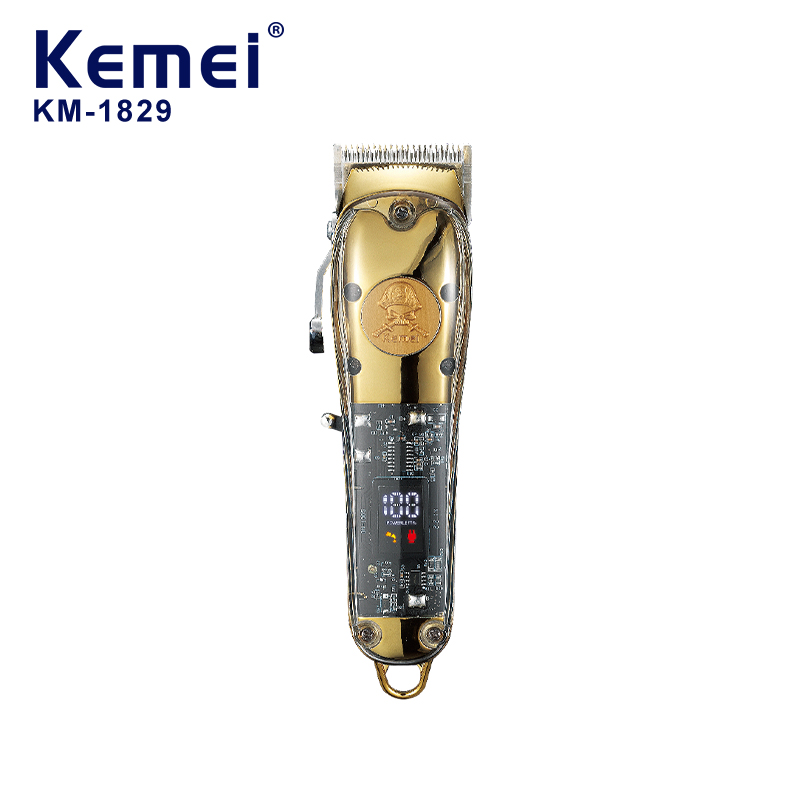
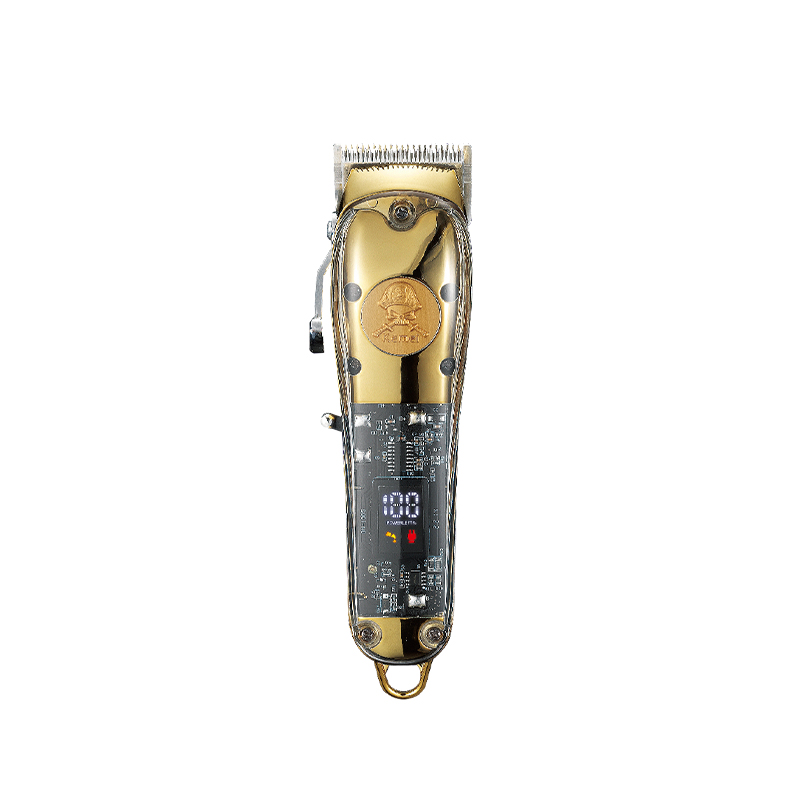
v45: 更新KM-1372/1829/709A/90-5/1113/189B/6910主图为1/1-1; KM-2295全主图PNG转JPG(1-1首图)

Changed region(s): [[0.0312, 0.0312, 0.375, 0.1562]]

diff --git a/index.html b/index.html
@@ -31,7 +31,7 @@
 <meta name="twitter:card" content="summary_large_image">
 <link rel="preconnect" href="https://miaoda.feishu.cn">
 <link href="https://miaoda.feishu.cn/fonts/css2?family=Inter:wght@400;500;600;700;800&display=swap" rel="stylesheet">
-<link rel="stylesheet" href="css/style.css?v=v20261015v44">
+<link rel="stylesheet" href="css/style.css?v=v20261015v45">
 <script type="application/ld+json">
 {"@context":"https://schema.org","@type":"Organization","name":"ANMO HOME APPLIANCES","url":"https://www.anmo-kemei.com","logo":"https://www.anmo-kemei.com/assets/favicon.png","description":"Chinese personal care appliance manufacturer and exporter. OEM/ODM, wholesale hair clippers, electric shavers, hair dryers, trimmers, beauty and pet grooming appliances.","address":{"@type":"PostalAddress","addressLocality":"Yiwu","addressRegion":"Zhejiang","addressCountry":"CN"},"contactPoint":{"@type":"ContactPoint","contactType":"sales","email":"sales-yiwu@anmo-kemei.com","availableLanguage":["English","Chinese","Spanish","French","Portuguese","Vietnamese","Thai","Indonesian","Russian","Japanese","Korean","Italian","German","Dutch","Arabic"]}}
 </script>
@@ -320,15 +320,15 @@
 
 <div id="toast-box"></div>
 
-<script>window.SITE_VER="v20261015v44";window._uv=function(u){return u&&u.indexOf("?")<0?u+"?v="+(window.SITE_VER||"1"):u;};</script>
-<script src="js/data-override.js?v=v20261015v44"></script>
-<script src="langs/en.js?v=v20261015v44"></script>
-<script src="js/i18n.js?v=v20261015v44"></script>
-<script src="js/data.js?v=v20261015v44"></script>
-<script src="js/content-data.js?v=v20261015v44"></script>
-<script src="js/app.js?v=v20261015v44"></script>
-<script src="js/site-content.js?v=v20261015v44"></script>
-  <script src="js/cart.js?v=v20261015v44"></script>
-<script src="js/inquiry-basket.js?v=v20261015v44"></script>
+<script>window.SITE_VER="v20261015v45";window._uv=function(u){return u&&u.indexOf("?")<0?u+"?v="+(window.SITE_VER||"1"):u;};</script>
+<script src="js/data-override.js?v=v20261015v45"></script>
+<script src="langs/en.js?v=v20261015v45"></script>
+<script src="js/i18n.js?v=v20261015v45"></script>
+<script src="js/data.js?v=v20261015v45"></script>
+<script src="js/content-data.js?v=v20261015v45"></script>
+<script src="js/app.js?v=v20261015v45"></script>
+<script src="js/site-content.js?v=v20261015v45"></script>
+  <script src="js/cart.js?v=v20261015v45"></script>
+<script src="js/inquiry-basket.js?v=v20261015v45"></script>
 </body>
 </html>

diff --git a/payment.html b/payment.html
@@ -31,7 +31,7 @@
 <meta name="twitter:card" content="summary_large_image">
 <link rel="preconnect" href="https://miaoda.feishu.cn">
 <link href="https://miaoda.feishu.cn/fonts/css2?family=Inter:wght@400;500;600;700;800&display=swap" rel="stylesheet">
-<link rel="stylesheet" href="css/style.css?v=v20261015v44">
+<link rel="stylesheet" href="css/style.css?v=v20261015v45">
 <script type="application/ld+json">
 {"@context":"https://schema.org","@type":"Organization","name":"ANMO HOME APPLIANCES","url":"https://www.anmo-kemei.com","logo":"https://www.anmo-kemei.com/assets/favicon.png","description":"Chinese personal care appliance manufacturer and exporter. OEM/ODM, wholesale hair clippers, electric shavers, hair dryers, trimmers, beauty and pet grooming appliances.","address":{"@type":"PostalAddress","addressLocality":"Yiwu","addressRegion":"Zhejiang","addressCountry":"CN"},"contactPoint":{"@type":"ContactPoint","contactType":"sales","email":"sales-yiwu@anmo-kemei.com","availableLanguage":["English","Chinese","Spanish","French","Portuguese","Vietnamese","Thai","Indonesian","Russian","Japanese","Korean","Italian","German","Dutch","Arabic"]}}
 </script>
@@ -351,15 +351,15 @@
 
 <div id="toast-box"></div>
 
-<script>window.SITE_VER="v20261015v44";window._uv=function(u){return u&&u.indexOf("?")<0?u+"?v="+(window.SITE_VER||"1"):u;};</script>
-<script src="js/data-override.js?v=v20261015v44"></script>
-<script src="langs/en.js?v=v20261015v44"></script>
-<script src="js/i18n.js?v=v20261015v44"></script>
-<script src="js/data.js?v=v20261015v44"></script>
-<script src="js/content-data.js?v=v20261015v44"></script>
-<script src="js/app.js?v=v20261015v44"></script>
-<script src="js/site-content.js?v=v20261015v44"></script>
-  <script src="js/cart.js?v=v20261015v44"></script>
-<script src="js/inquiry-basket.js?v=v20261015v44"></script>
+<script>window.SITE_VER="v20261015v45";window._uv=function(u){return u&&u.indexOf("?")<0?u+"?v="+(window.SITE_VER||"1"):u;};</script>
+<script src="js/data-override.js?v=v20261015v45"></script>
+<script src="langs/en.js?v=v20261015v45"></script>
+<script src="js/i18n.js?v=v20261015v45"></script>
+<script src="js/data.js?v=v20261015v45"></script>
+<script src="js/content-data.js?v=v20261015v45"></script>
+<script src="js/app.js?v=v20261015v45"></script>
+<script src="js/site-content.js?v=v20261015v45"></script>
+  <script src="js/cart.js?v=v20261015v45"></script>
+<script src="js/inquiry-basket.js?v=v20261015v45"></script>
 </body>
 </html>

diff --git a/product.html b/product.html
@@ -29,7 +29,7 @@
 <meta property="og:description" content="Home appliance product details with factory pricing, specifications and certifications.">
 <link rel="preconnect" href="https://miaoda.feishu.cn">
 <link href="https://miaoda.feishu.cn/fonts/css2?family=Inter:wght@400;500;600;700;800&display=swap" rel="stylesheet">
-<link rel="stylesheet" href="css/style.css?v=v20261015v44">
+<link rel="stylesheet" href="css/style.css?v=v20261015v45">
 <script type="application/ld+json">
 {"@context":"https://schema.org","@type":"Organization","name":"ANMO HOME APPLIANCES","url":"https://www.anmo-kemei.com","logo":"https://www.anmo-kemei.com/assets/favicon.png","contactPoint":{"@type":"ContactPoint","contactType":"sales","email":"sales-yiwu@anmo-kemei.com"}}
 </script>
@@ -284,17 +284,17 @@
 
 <div id="toast-box"></div>
 
-<script>window.SITE_VER="v20261015v44";window._uv=function(u){return u&&u.indexOf("?")<0?u+"?v="+(window.SITE_VER||"1"):u;};</script>
-<script src="js/data-override.js?v=v20261015v44"></script>
-<script src="langs/en.js?v=v20261015v44"></script>
-<script src="js/i18n.js?v=v20261015v44"></script>
-<script src="js/data.js?v=v20261015v44"></script>
-<script src="js/content-data.js?v=v20261015v44"></script>
-<script src="js/app.js?v=v20261015v44"></script>
-<script src="js/site-content.js?v=v20261015v44"></script>
-<script src="js/products.js?v=v20261015v44"></script>
-  <script src="js/cart.js?v=v20261015v44"></script>
-<script src="js/inquiry-basket.js?v=v20261015v44"></script>
-<script src="js/product-detail.js?v=v20261015v44"></script>
+<script>window.SITE_VER="v20261015v45";window._uv=function(u){return u&&u.indexOf("?")<0?u+"?v="+(window.SITE_VER||"1"):u;};</script>
+<script src="js/data-override.js?v=v20261015v45"></script>
+<script src="langs/en.js?v=v20261015v45"></script>
+<script src="js/i18n.js?v=v20261015v45"></script>
+<script src="js/data.js?v=v20261015v45"></script>
+<script src="js/content-data.js?v=v20261015v45"></script>
+<script src="js/app.js?v=v20261015v45"></script>
+<script src="js/site-content.js?v=v20261015v45"></script>
+<script src="js/products.js?v=v20261015v45"></script>
+  <script src="js/cart.js?v=v20261015v45"></script>
+<script src="js/inquiry-basket.js?v=v20261015v45"></script>
+<script src="js/product-detail.js?v=v20261015v45"></script>
 </body>
 </html>

diff --git a/about.html b/about.html
@@ -29,7 +29,7 @@
 <meta property="og:description" content="Yiwu-based appliance manufacturer since 2012. ISO 9001, OEM/ODM, export to 100+ countries.">
 <link rel="preconnect" href="https://miaoda.feishu.cn">
 <link href="https://miaoda.feishu.cn/fonts/css2?family=Inter:wght@400;500;600;700;800&display=swap" rel="stylesheet">
-<link rel="stylesheet" href="css/style.css?v=v20261015v44">
+<link rel="stylesheet" href="css/style.css?v=v20261015v45">
 <script type="application/ld+json">
 {"@context":"https://schema.org","@type":"Organization","name":"ANMO HOME APPLIANCES","url":"https://www.anmo-kemei.com","logo":"https://www.anmo-kemei.com/assets/favicon.png","foundingDate":"2012","address":{"@type":"PostalAddress","addressLocality":"Yiwu","addressRegion":"Zhejiang","addressCountry":"CN"},"contactPoint":{"@type":"ContactPoint","contactType":"sales","email":"sales-yiwu@anmo-kemei.com"}}
 </script>
@@ -261,15 +261,15 @@
 
 <div id="toast-box"></div>
 
-<script>window.SITE_VER="v20261015v44";window._uv=function(u){return u&&u.indexOf("?")<0?u+"?v="+(window.SITE_VER||"1"):u;};</script>
-<script src="js/data-override.js?v=v20261015v44"></script>
-<script src="langs/en.js?v=v20261015v44"></script>
-<script src="js/i18n.js?v=v20261015v44"></script>
-<script src="js/data.js?v=v20261015v44"></script>
-<script src="js/content-data.js?v=v20261015v44"></script>
-<script src="js/app.js?v=v20261015v44"></script>
-<script src="js/site-content.js?v=v20261015v44"></script>
-  <script src="js/cart.js?v=v20261015v44"></script>
-<script src="js/inquiry-basket.js?v=v20261015v44"></script>
+<script>window.SITE_VER="v20261015v45";window._uv=function(u){return u&&u.indexOf("?")<0?u+"?v="+(window.SITE_VER||"1"):u;};</script>
+<script src="js/data-override.js?v=v20261015v45"></script>
+<script src="langs/en.js?v=v20261015v45"></script>
+<script src="js/i18n.js?v=v20261015v45"></script>
+<script src="js/data.js?v=v20261015v45"></script>
+<script src="js/content-data.js?v=v20261015v45"></script>
+<script src="js/app.js?v=v20261015v45"></script>
+<script src="js/site-content.js?v=v20261015v45"></script>
+  <script src="js/cart.js?v=v20261015v45"></script>
+<script src="js/inquiry-basket.js?v=v20261015v45"></script>
 </body>
 </html>

diff --git a/products.html b/products.html
@@ -29,7 +29,7 @@
 <meta property="og:description" content="Wholesale home appliances at factory prices with global certification. MOQ from 100 pcs.">
 <link rel="preconnect" href="https://miaoda.feishu.cn">
 <link href="https://miaoda.feishu.cn/fonts/css2?family=Inter:wght@400;500;600;700;800&display=swap" rel="stylesheet">
-<link rel="stylesheet" href="css/style.css?v=v20261015v44">
+<link rel="stylesheet" href="css/style.css?v=v20261015v45">
 <script type="application/ld+json">
 {"@context":"https://schema.org","@type":"Organization","name":"ANMO HOME APPLIANCES","url":"https://www.anmo-kemei.com","logo":"https://www.anmo-kemei.com/assets/favicon.png","contactPoint":{"@type":"ContactPoint","contactType":"sales","email":"sales-yiwu@anmo-kemei.com"}}
 </script>
@@ -294,16 +294,16 @@
 
 <div id="toast-box"></div>
 
-<script>window.SITE_VER="v20261015v44";window._uv=function(u){return u&&u.indexOf("?")<0?u+"?v="+(window.SITE_VER||"1"):u;};</script>
-<script src="js/data-override.js?v=v20261015v44"></script>
-<script src="langs/en.js?v=v20261015v44"></script>
-<script src="js/i18n.js?v=v20261015v44"></script>
-<script src="js/data.js?v=v20261015v44"></script>
-<script src="js/content-data.js?v=v20261015v44"></script>
-<script src="js/app.js?v=v20261015v44"></script>
-<script src="js/site-content.js?v=v20261015v44"></script>
-<script src="js/products.js?v=v20261015v44"></script>
-  <script src="js/cart.js?v=v20261015v44"></script>
-<script src="js/inquiry-basket.js?v=v20261015v44"></script>
+<script>window.SITE_VER="v20261015v45";window._uv=function(u){return u&&u.indexOf("?")<0?u+"?v="+(window.SITE_VER||"1"):u;};</script>
+<script src="js/data-override.js?v=v20261015v45"></script>
+<script src="langs/en.js?v=v20261015v45"></script>
+<script src="js/i18n.js?v=v20261015v45"></script>
+<script src="js/data.js?v=v20261015v45"></script>
+<script src="js/content-data.js?v=v20261015v45"></script>
+<script src="js/app.js?v=v20261015v45"></script>
+<script src="js/site-content.js?v=v20261015v45"></script>
+<script src="js/products.js?v=v20261015v45"></script>
+  <script src="js/cart.js?v=v20261015v45"></script>
+<script src="js/inquiry-basket.js?v=v20261015v45"></script>
 </body>
 </html>

diff --git a/contact.html b/contact.html
@@ -29,7 +29,7 @@
 <meta property="og:description" content="Send your inquiry — our export team replies within 12 hours.">
 <link rel="preconnect" href="https://miaoda.feishu.cn">
 <link href="https://miaoda.feishu.cn/fonts/css2?family=Inter:wght@400;500;600;700;800&display=swap" rel="stylesheet">
-<link rel="stylesheet" href="css/style.css?v=v20261015v44">
+<link rel="stylesheet" href="css/style.css?v=v20261015v45">
 <script type="application/ld+json">
 {"@context":"https://schema.org","@type":"Organization","name":"ANMO HOME APPLIANCES","url":"https://www.anmo-kemei.com","logo":"https://www.anmo-kemei.com/assets/favicon.png","contactPoint":{"@type":"ContactPoint","contactType":"sales","email":"sales-yiwu@anmo-kemei.com","telephone":"+86-757-8888-8888","availableLanguage":["English","Chinese","Spanish","French","Portuguese","Vietnamese","Thai","Indonesian","Russian","Japanese","Korean","Italian","German","Dutch","Arabic"]}}
 </script>
@@ -274,13 +274,13 @@
 
 <div id="toast-box"></div>
 
-<script>window.SITE_VER="v20261015v44";window._uv=function(u){return u&&u.indexOf("?")<0?u+"?v="+(window.SITE_VER||"1"):u;};</script>
-<script src="js/data-override.js?v=v20261015v44"></script>
-<script src="langs/en.js?v=v20261015v44"></script>
-<script src="js/i18n.js?v=v20261015v44"></script>
-<script src="js/data.js?v=v20261015v44"></script>
-<script src="js/app.js?v=v20261015v44"></script>
-  <script src="js/cart.js?v=v20261015v44"></script>
-<script src="js/inquiry-basket.js?v=v20261015v44"></script>
+<script>window.SITE_VER="v20261015v45";window._uv=function(u){return u&&u.indexOf("?")<0?u+"?v="+(window.SITE_VER||"1"):u;};</script>
+<script src="js/data-override.js?v=v20261015v45"></script>
+<script src="langs/en.js?v=v20261015v45"></script>
+<script src="js/i18n.js?v=v20261015v45"></script>
+<script src="js/data.js?v=v20261015v45"></script>
+<script src="js/app.js?v=v20261015v45"></script>
+  <script src="js/cart.js?v=v20261015v45"></script>
+<script src="js/inquiry-basket.js?v=v20261015v45"></script>
 </body>
 </html>

diff --git a/privacy.html b/privacy.html
@@ -26,7 +26,7 @@
 <link rel="icon" href="assets/favicon.png" type="image/png">
 <link rel="preconnect" href="https://miaoda.feishu.cn">
 <link href="https://miaoda.feishu.cn/fonts/css2?family=Inter:wght@400;500;600;700;800&display=swap" rel="stylesheet">
-<link rel="stylesheet" href="css/style.css?v=v20261015v44">
+<link rel="stylesheet" href="css/style.css?v=v20261015v45">
 </head>
 <body data-page="privacy">
 
@@ -211,13 +211,13 @@
 
 <div id="toast-box"></div>
 
-<script>window.SITE_VER="v20261015v44";window._uv=function(u){return u&&u.indexOf("?")<0?u+"?v="+(window.SITE_VER||"1"):u;};</script>
-<script src="js/data-override.js?v=v20261015v44"></script>
-<script src="langs/en.js?v=v20261015v44"></script>
-<script src="js/i18n.js?v=v20261015v44"></script>
-<script src="js/data.js?v=v20261015v44"></script>
-<script src="js/app.js?v=v20261015v44"></script>
-  <script src="js/cart.js?v=v20261015v44"></script>
-<script src="js/inquiry-basket.js?v=v20261015v44"></script>
+<script>window.SITE_VER="v20261015v45";window._uv=function(u){return u&&u.indexOf("?")<0?u+"?v="+(window.SITE_VER||"1"):u;};</script>
+<script src="js/data-override.js?v=v20261015v45"></script>
+<script src="langs/en.js?v=v20261015v45"></script>
+<script src="js/i18n.js?v=v20261015v45"></script>
+<script src="js/data.js?v=v20261015v45"></script>
+<script src="js/app.js?v=v20261015v45"></script>
+  <script src="js/cart.js?v=v20261015v45"></script>
+<script src="js/inquiry-basket.js?v=v20261015v45"></script>
 </body>
 </html>

diff --git a/admin.html b/admin.html
@@ -8,7 +8,7 @@
 <link rel="icon" href="assets/favicon.png" type="image/png">
 <link rel="preconnect" href="https://miaoda.feishu.cn">
 <link href="https://miaoda.feishu.cn/fonts/css2?family=Inter:wght@400;500;600;700;800&display=swap" rel="stylesheet">
-<link rel="stylesheet" href="css/style.css?v=v20261015v44">
+<link rel="stylesheet" href="css/style.css?v=v20261015v45">
 </head>
 <body data-page="admin">
 
@@ -488,12 +488,12 @@
 
 <div id="toast-box"></div>
 
-<script>window.SITE_VER="v20261015v44";window._uv=function(u){return u&&u.indexOf("?")<0?u+"?v="+(window.SITE_VER||"1"):u;};</script>
-<script src="js/data-override.js?v=v20261015v44"></script>
-<script src="langs/en.js?v=v20261015v44"></script>
-<script src="js/i18n.js?v=v20261015v44"></script>
-<script src="js/data.js?v=v20261015v44"></script>
-<script src="js/content-data.js?v=v20261015v44"></script>
-<script src="js/admin.js?v=v20261015v44"></script>
+<script>window.SITE_VER="v20261015v45";window._uv=function(u){return u&&u.indexOf("?")<0?u+"?v="+(window.SITE_VER||"1"):u;};</script>
+<script src="js/data-override.js?v=v20261015v45"></script>
+<script src="langs/en.js?v=v20261015v45"></script>
+<script src="js/i18n.js?v=v20261015v45"></script>
+<script src="js/data.js?v=v20261015v45"></script>
+<script src="js/content-data.js?v=v20261015v45"></script>
+<script src="js/admin.js?v=v20261015v45"></script>
 </body>
 </html>
